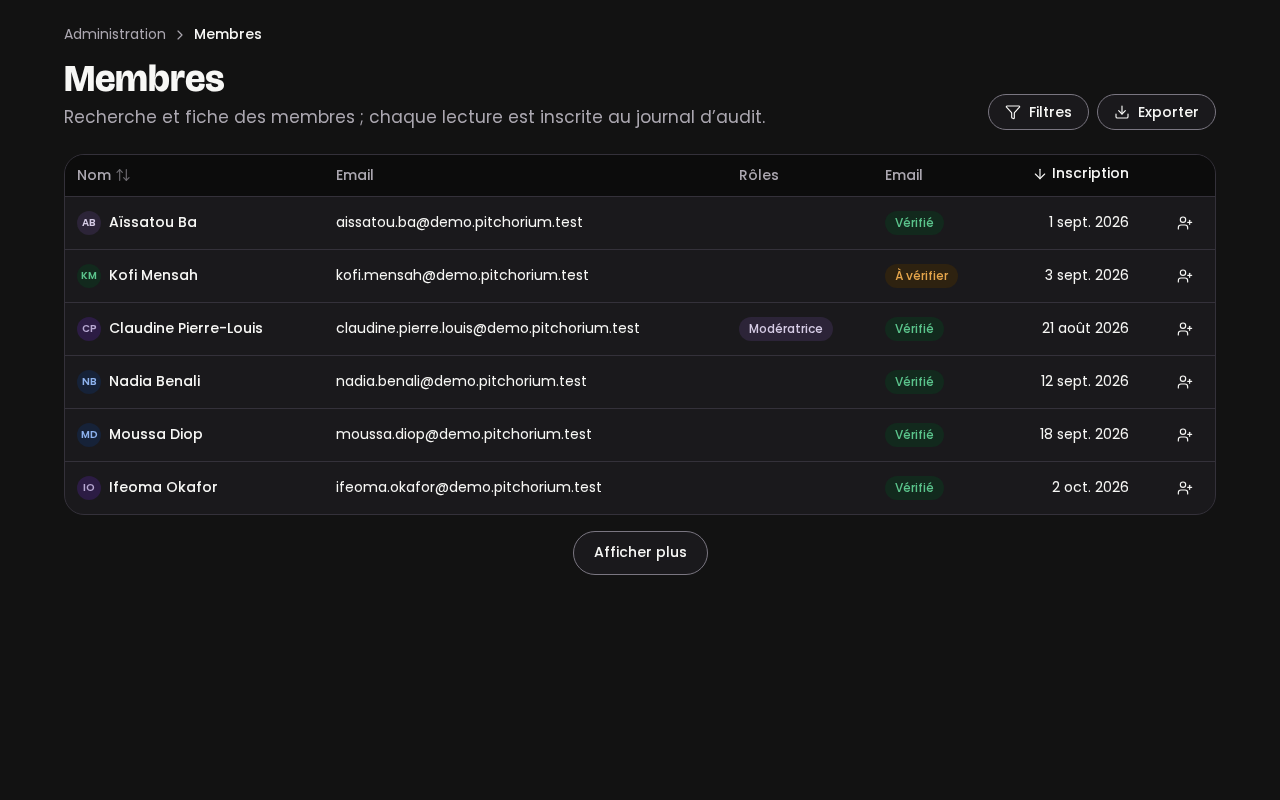
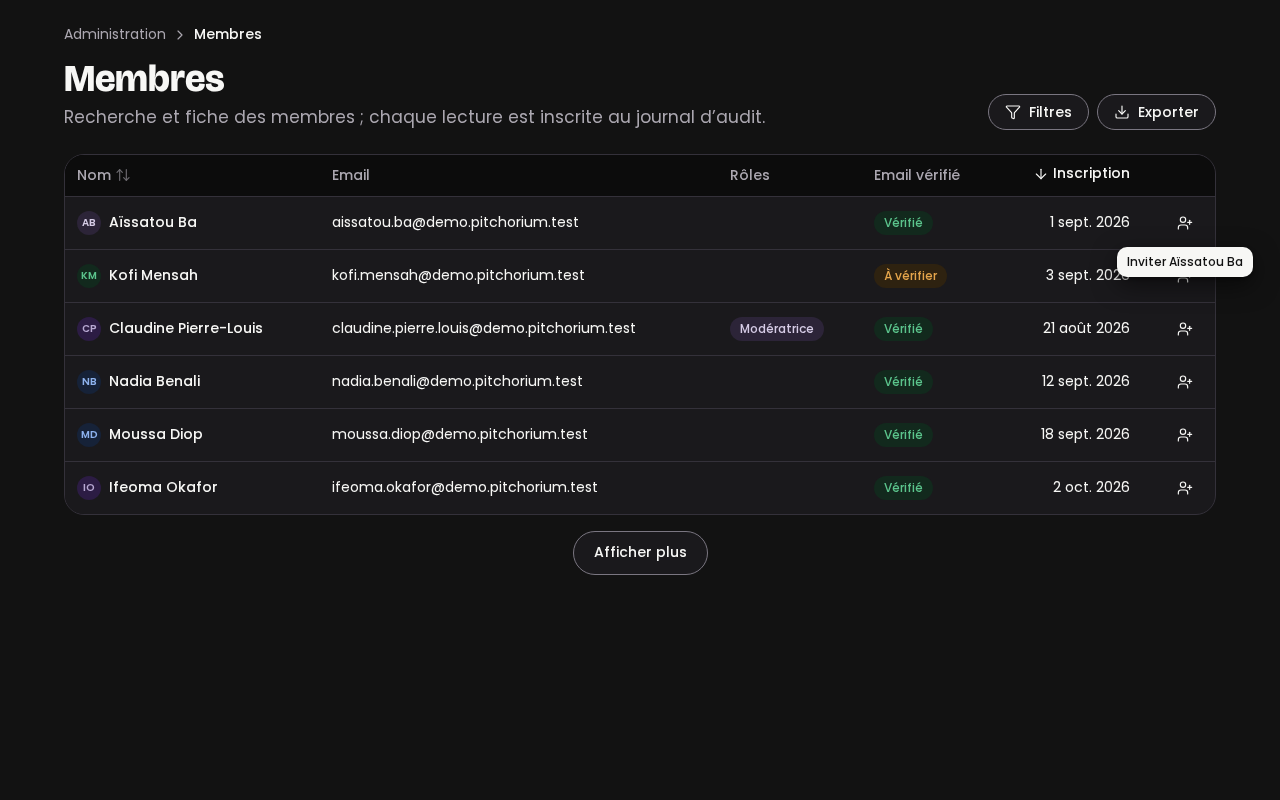
docs(design): regenerate the captures of the administration table

diff --git a/docs/design/review/README.md b/docs/design/review/README.md
@@ -13,7 +13,7 @@ Fichiers `<composition>-<format>-<thème>.png` : format `desktop` (1280x800) ou 
 - `notifications-list` : `NotificationItem`, lues et non lues : colonne média fixe, pastille du type, extrait de la publication, demande de connexion à accepter ou ignorer sur place.
 - `conversation` : `ConversationThread` sur deux jours (séparateurs, groupes, heure courte, « Lu ») et `MessageComposer` (hauteur automatique, pièce jointe).
 - `form-with-server-errors` : formulaire complet (dates en segments, fuseau dit une fois) après une règle vérifiée dans le navigateur puis une réponse RFC 9457 de l'api : résumé focalisé avec un lien par erreur, messages précis sous les champs, actions empilées sur téléphone.
-- `admin-table` : cadre d'administration, fil d'Ariane, tableau triable.
+- `admin-table` : cadre d'administration, fil d'Ariane, tableau triable : première colonne collante, libellés uniques (« Email », « Email vérifié »), infobulle d'une action en icône seule ; sur téléphone, une carte par ligne.
 
 ## Régénérer
 
